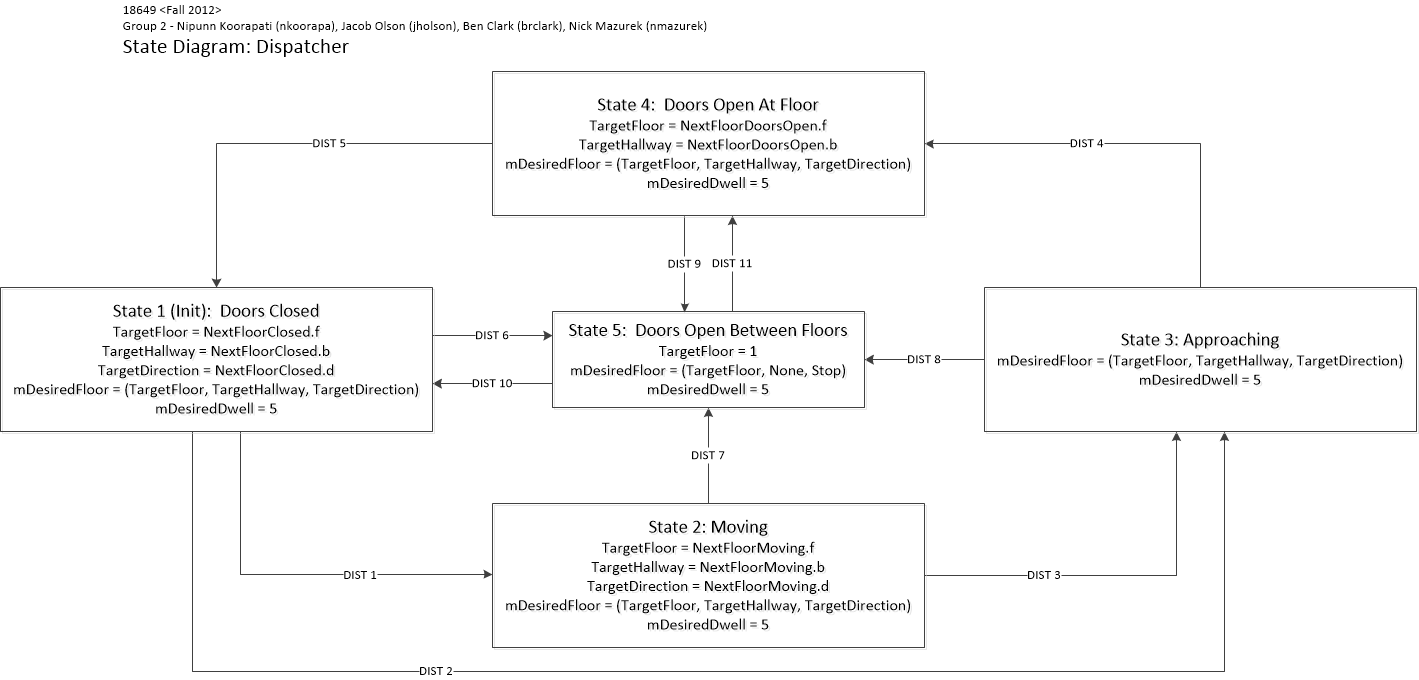
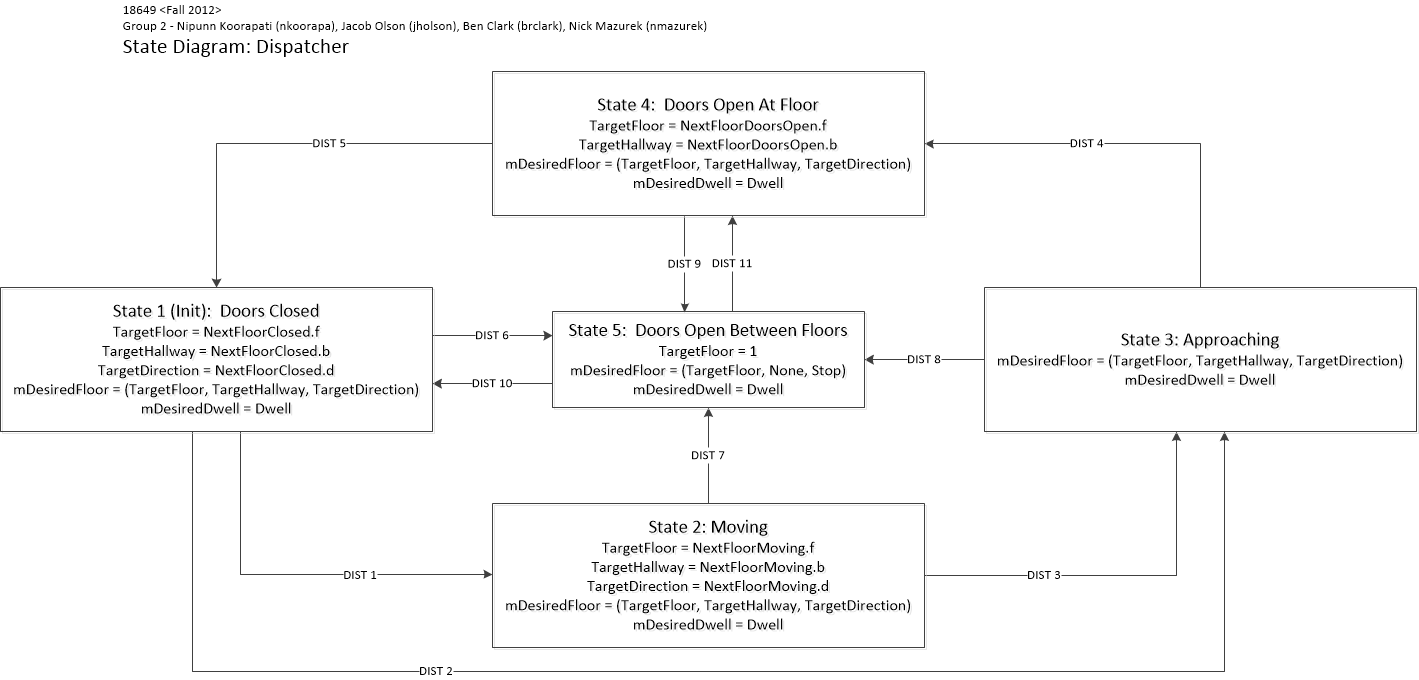
Updated dispatcher to have a dwell time of 3 instead of 5.  Also removed magic numbers

diff --git a/portfolio/reqs/requirements2.html b/portfolio/reqs/requirements2.html
@@ -3057,6 +3057,9 @@ below Lobby (1). </li>
     TargetDirection: State variable that represents the desired
     direction of travel after you reach TargetFloor.
   </li>
+  <li>
+    Dwell: Variable that represents the desiredDwell of this elevator.
+  </li>
 </ul>
 <h3> Macros: </h3>
 <ul>

diff --git a/code/simulator/elevatorcontrol/Dispatcher.java b/code/simulator/elevatorcontrol/Dispatcher.java
@@ -64,7 +64,7 @@ public class Dispatcher extends Controller {
     private final SimTime period;
     
     // Store dwell time
-    public static final int DWELL_TIME = 5000;
+    public static final int DWELL_TIME = 3000;
 
     // Store the number of floors
     //private final int numFloors;
